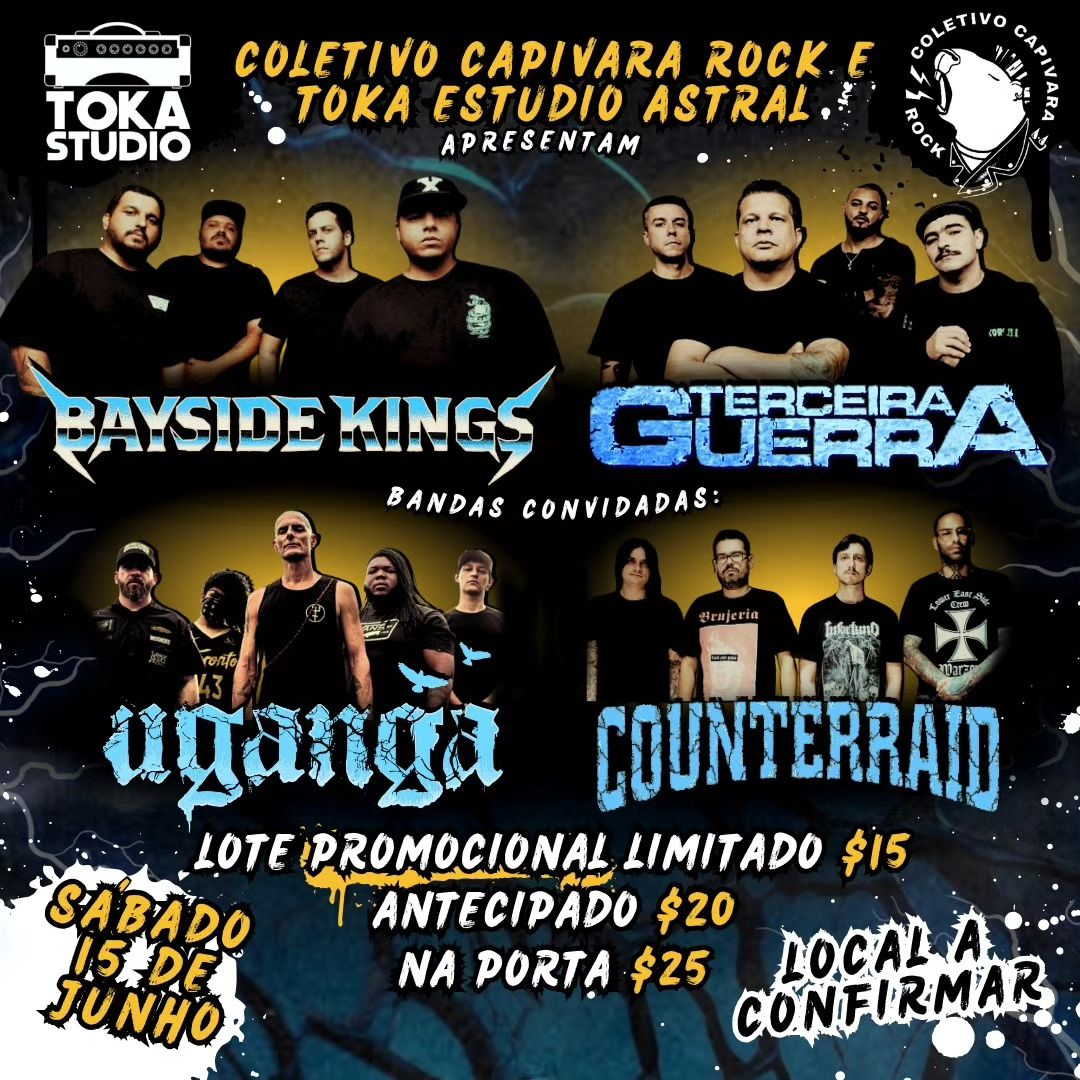
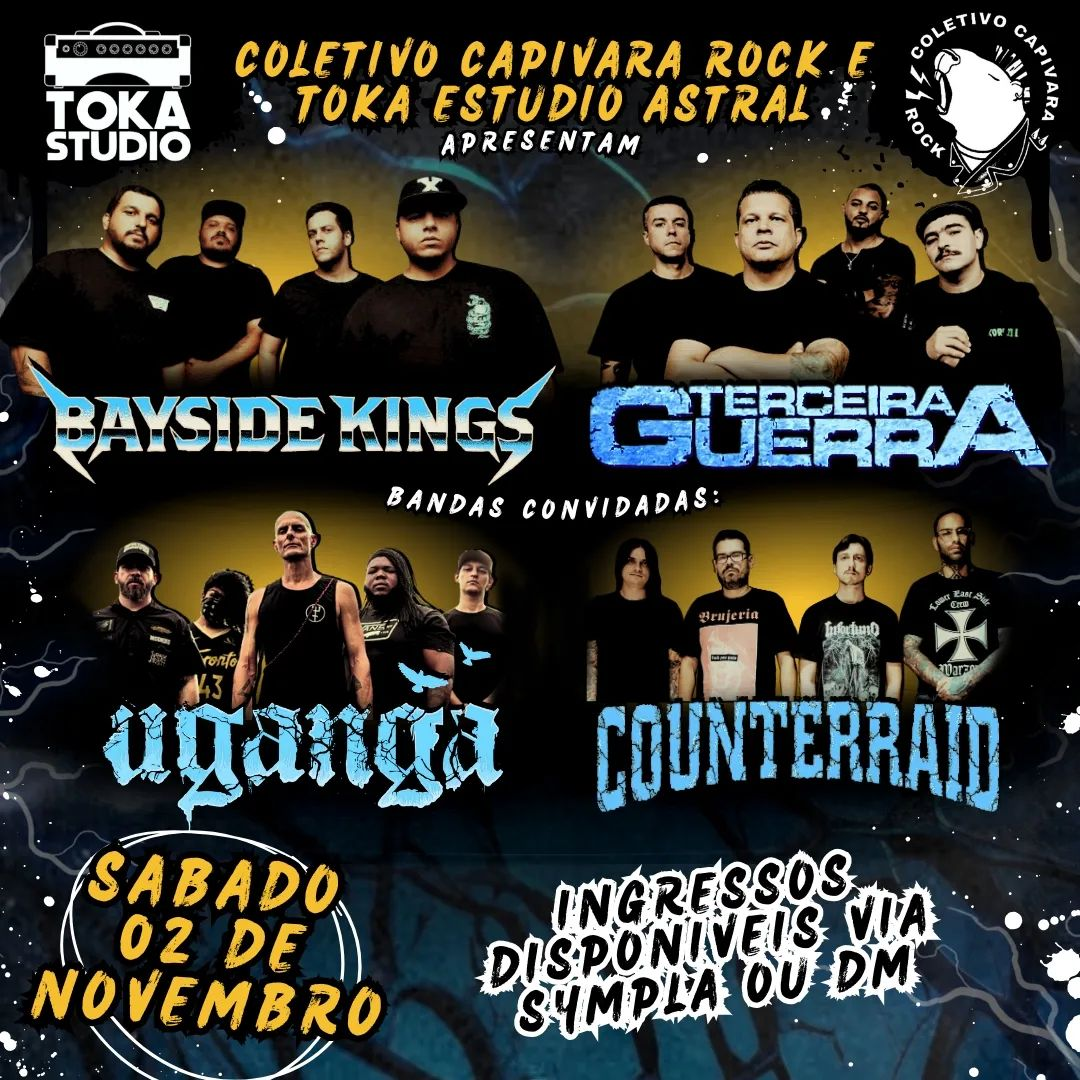
Change image gig

diff --git a/src/content/state/mg.md b/src/content/state/mg.md
@@ -34,8 +34,8 @@ gigs:
     ticketsUrl: 'https://www.clubedoingresso.com/evento/gutalax-belohorizonte'
   - poster: 435946127_1227834108195855_4659450126338379186_n.jpeg
     city: Uberlândia
-    date: '15/06/2024 18:00'
-    daysGroup: 14/15/16
+    date: '02/11/2024 18:00'
+    daysGroup: 01/02/03
     ticketsUrl: >-
       https://www.sympla.com.br/evento/bayside-kings-terceira-guerra-e-bandas-convidadas/2421024
   - poster: 441533407_18429671200047511_4746993641444425812_n.jpg
